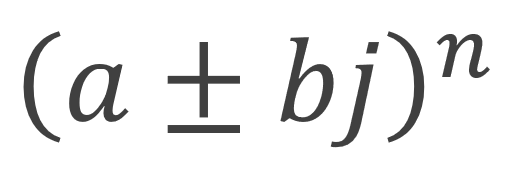
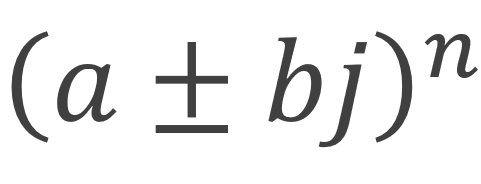
Fix: Size of 2th image

diff --git a/src/app/raiz/raiz.component.html b/src/app/raiz/raiz.component.html
@@ -19,15 +19,6 @@
   <button type="button" class="btn btn-outline-primary btn-block"
     (click)='checkNumber(A.value,B.value,N.value) '>Calculate</button>
 
-
-
-  <div class="alert alert-warning alert-dismissible fade show" *ngIf="[[ang]]==3" role="alert">
-    <strong>Holy guacamole!</strong> You should check in on some of those fields below.
-    <button type="button" class="close" data-dismiss="alert" aria-label="Close">
-      <span aria-hidden="true">&times;</span>
-    </button>
-  </div>
-
   <br><br>
 
 
@@ -41,12 +32,11 @@
       </tr>
     </thead>
     <tbody>
-      <tr *ngFor="let sB of Solution; let i = index">
+      <tr *ngFor="let sB of this.solutions; let i = index">
         <th scope="row">{{i}}</th>
         <td>{{sB}}</td>
         <td>{{sB}}</td>
         <td>{{sB}}</td>
-
       </tr>
     </tbody>
   </table>

diff --git a/src/app/app.component.html b/src/app/app.component.html
@@ -1,10 +1,5 @@
-<nav class="navbar navbar-expand-lg navbar-dark bg-dark">
-    <span class="navbar-brand color">Teorema de Moirve</span>
-    <button class="navbar-toggler" type="button" data-toggle="collapse" data-target="#navbarNav" aria-controls="navbarNav"
-      aria-expanded="false" aria-label="Toggle navigation">
-      <span class="navbar-toggler-icon"></span>
-    </button>
-  </nav>
+<nav class="navbar navbar-dark bg-dark">
+    <span class="navbar-brand color">Teorema de Moirve</span>    
+</nav>
 
 <router-outlet></router-outlet>
-

diff --git a/src/app/exponente/exponente.component.html b/src/app/exponente/exponente.component.html
@@ -35,13 +35,10 @@
     <tbody>
       <tr>
       <!-- <tr *ngFor="let sB of this.solutions; let i = index"> -->
-
         <th scope="row">1</th>
         <td>{{this.solutions[0]}}</td>
         <td>{{this.solutions[1]}}</td>
         <td>{{this.solutions[2]}}</td>
-
-
       </tr>
     </tbody>
   </table>

diff --git a/src/app/main/main.component.html b/src/app/main/main.component.html
@@ -1,8 +1,3 @@
-<!--The content below is only a placeholder and can be replaced.-->
-
-
-
-
 <div class="container">
 
   <br><br><br><br>
